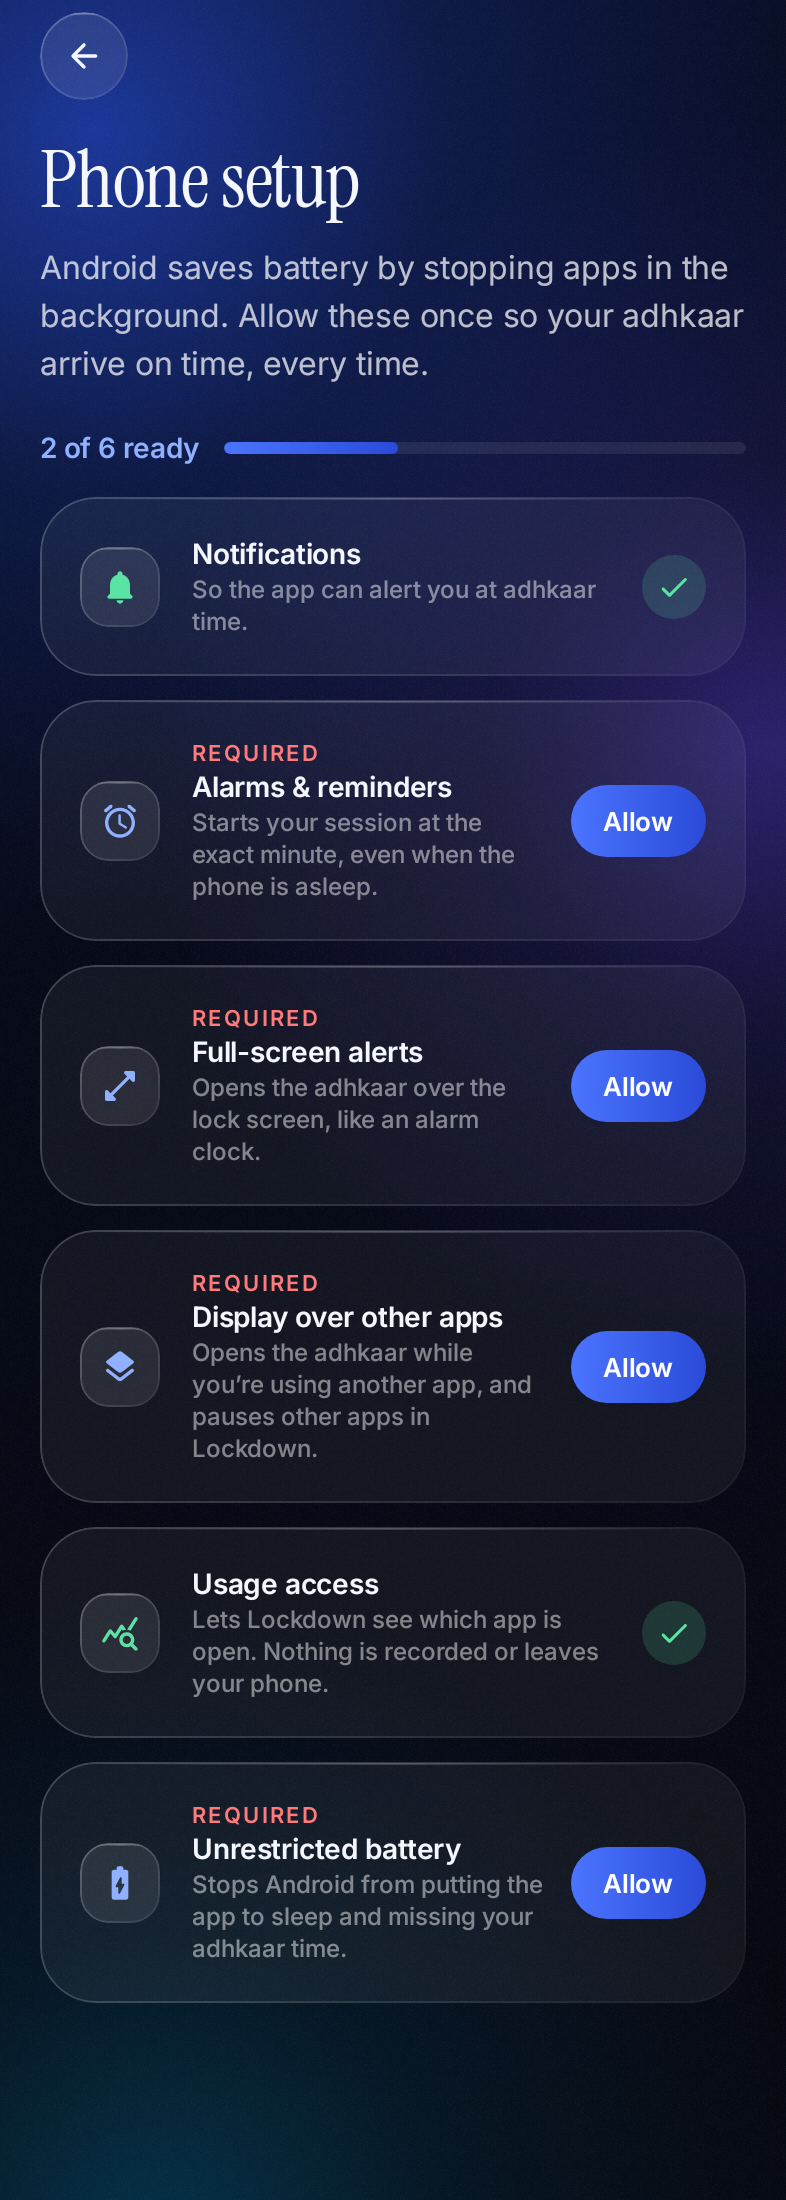
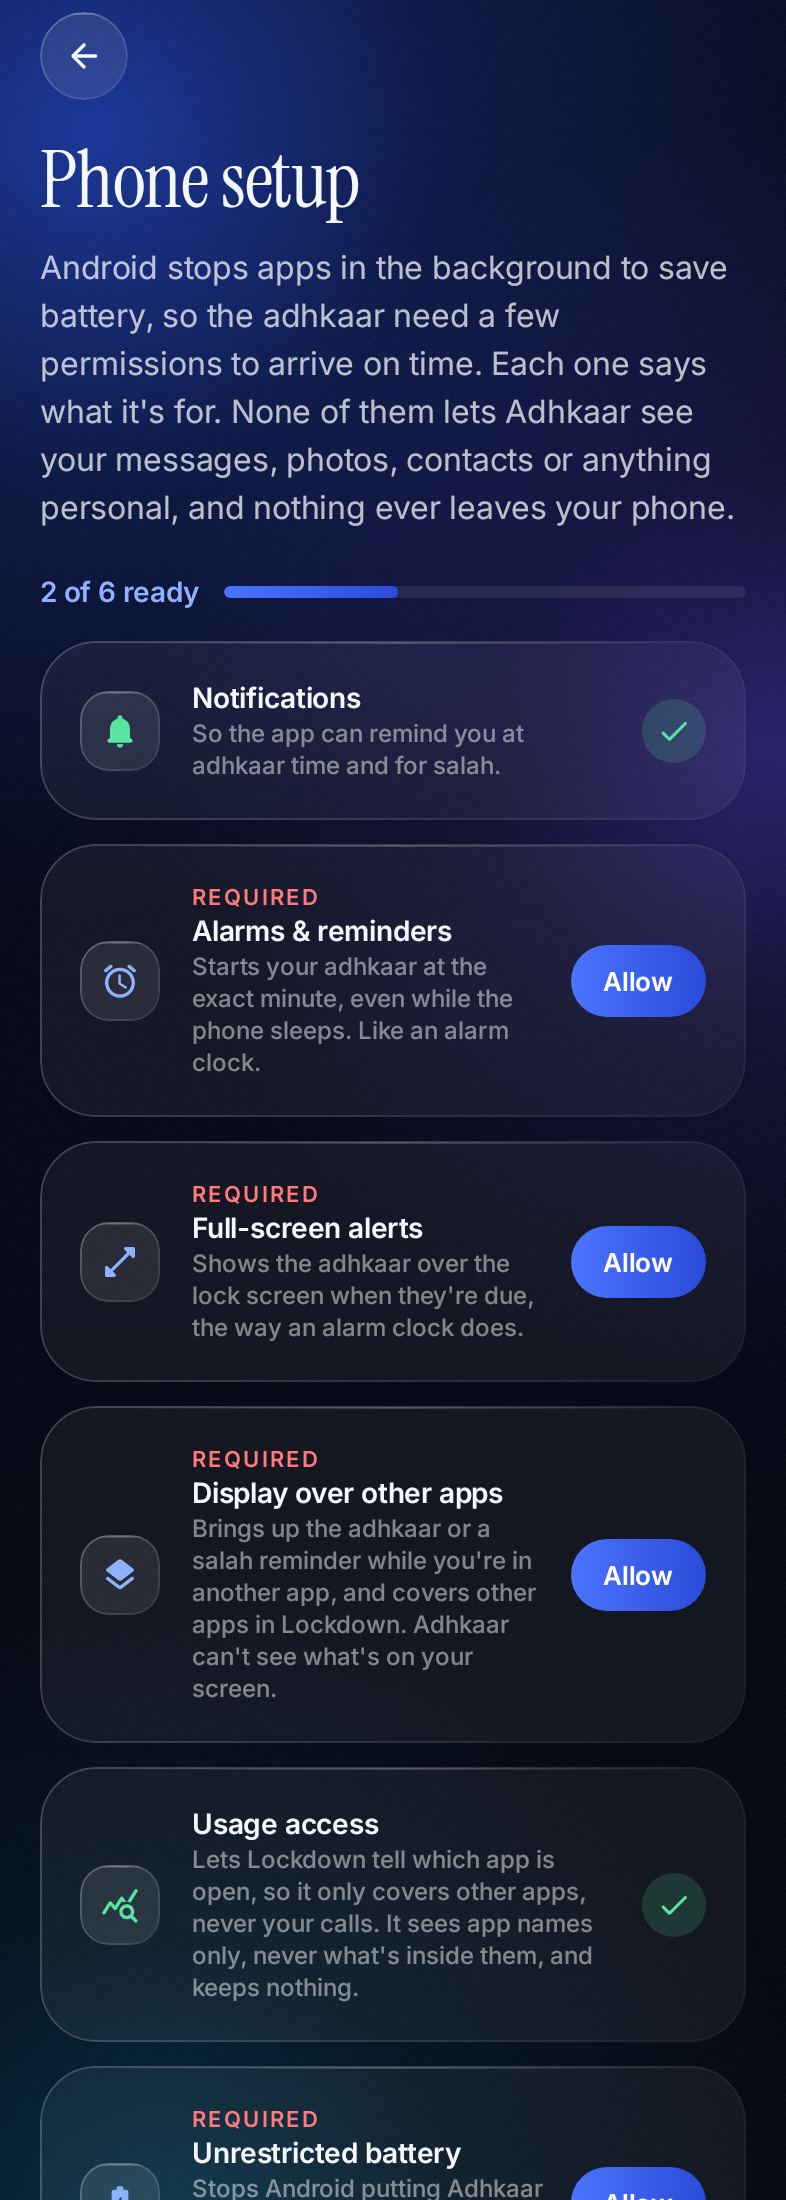
Setup: say why each permission is needed, guide usage access, check background by itself

diff --git a/app/src/main/java/org/adhkaar/app/ui/setup/SetupScreen.kt b/app/src/main/java/org/adhkaar/app/ui/setup/SetupScreen.kt
@@ -131,9 +131,9 @@ fun RequirementsList(strictness: Strictness) {
     val items = Requirement.relevantFor(strictness)
     val granted = remember(resumeTick, refresh, strictness) { items.associateWith { it.isGranted(context) } }
     val guide = remember { OemAutostart.guide() }
-    // On Xiaomi phones the background switches can be read; elsewhere the user confirms by hand.
-    val backgroundChecked = remember(resumeTick, refresh) { OemAutostart.xiaomiBackgroundAllowed(context) }
-    val backgroundOk = backgroundChecked ?: settings.oemAutostartDone
+    // Read from the phone: Xiaomi's own switches where they can be read, otherwise whether
+    // Android lets Adhkaar run unrestricted. Nothing to confirm by hand.
+    val backgroundOk = remember(resumeTick, refresh) { OemAutostart.backgroundDone(context) }
 
     val notificationPrompt = rememberLauncherForActivityResult(ActivityResultContracts.RequestPermission()) { ok ->
         refresh++
@@ -173,6 +173,11 @@ fun RequirementsList(strictness: Strictness) {
                 body = stringResource(req.why),
                 required = strictness in req.requiredFor,
                 done = granted[req] == true,
+                steps = if (req == Requirement.USAGE_ACCESS) listOf(
+                    stringResource(R.string.req_usage_step_find),
+                    stringResource(R.string.req_usage_step_tap),
+                    stringResource(R.string.req_usage_step_on),
+                ) else emptyList(),
             ) {
                 if (req == Requirement.NOTIFICATIONS && Build.VERSION.SDK_INT >= 33) {
                     notificationPrompt.launch(Manifest.permission.POST_NOTIFICATIONS)
@@ -205,30 +210,18 @@ fun RequirementsList(strictness: Strictness) {
                 Spacer(Modifier.height(Space.s))
                 Row(Modifier.padding(start = 56.dp), horizontalArrangement = Arrangement.spacedBy(Space.s)) {
                     CompactButton(stringResource(R.string.setup_open_settings), filled = true) { OemAutostart.open(context, guide) }
-                    CompactButton(stringResource(R.string.setup_guide), filled = false) {
-                        context.startActivity(
-                            Intent(Intent.ACTION_VIEW, Uri.parse(OemAutostart.helpUrl(guide))).addFlags(Intent.FLAG_ACTIVITY_NEW_TASK),
-                        )
-                    }
                 }
                 Spacer(Modifier.height(Space.m))
-                if (backgroundChecked != null) {
-                    // Read from the phone itself, so there is nothing to confirm by hand.
-                    Row(Modifier.padding(start = 56.dp), verticalAlignment = Alignment.CenterVertically) {
-                        Icon(
-                            if (backgroundChecked) Icons.Rounded.Check else Icons.Rounded.PhoneAndroid, null,
-                            tint = if (backgroundChecked) Nur.success else Nur.danger, modifier = Modifier.size(16.dp),
-                        )
-                        Spacer(Modifier.width(Space.s))
-                        Text(
-                            stringResource(if (backgroundChecked) R.string.setup_oem_checked_ok else R.string.setup_oem_checked_missing),
-                            style = Type.caption.copy(color = if (backgroundChecked) Nur.success else Nur.textSecondary),
-                        )
-                    }
-                } else {
-                    GlassSwitchRow(stringResource(R.string.setup_oem_done), settings.oemAutostartDone, Modifier.padding(start = 56.dp)) { v ->
-                        SettingsStore.get(context).update { it.copy(oemAutostartDone = v) }
-                    }
+                Row(Modifier.padding(start = 56.dp), verticalAlignment = Alignment.CenterVertically) {
+                    Icon(
+                        if (backgroundOk) Icons.Rounded.Check else Icons.Rounded.PhoneAndroid, null,
+                        tint = if (backgroundOk) Nur.success else Nur.danger, modifier = Modifier.size(16.dp),
+                    )
+                    Spacer(Modifier.width(Space.s))
+                    Text(
+                        stringResource(if (backgroundOk) R.string.setup_oem_checked_ok else R.string.setup_oem_checked_missing),
+                        style = Type.caption.copy(color = if (backgroundOk) Nur.success else Nur.textSecondary),
+                    )
                 }
             }
         }
@@ -236,7 +229,15 @@ fun RequirementsList(strictness: Strictness) {
 }
 
 @Composable
-private fun StepCard(icon: ImageVector, title: String, body: String, required: Boolean, done: Boolean, onAllow: () -> Unit) {
+private fun StepCard(
+    icon: ImageVector,
+    title: String,
+    body: String,
+    required: Boolean,
+    done: Boolean,
+    steps: List<String> = emptyList(),
+    onAllow: () -> Unit,
+) {
     GlassCard(Modifier.fillMaxWidth()) {
         Row(verticalAlignment = Alignment.CenterVertically) {
             IconBadge(icon, if (done) Nur.success else LocalAura.current.accent)
@@ -261,6 +262,15 @@ private fun StepCard(icon: ImageVector, title: String, body: String, required: B
                     }
                 } else {
                     CompactButton(stringResource(R.string.setup_allow), filled = true, onClick = onAllow)
+                }
+            }
+        }
+        if (!done && steps.isNotEmpty()) {
+            Spacer(Modifier.height(Space.m))
+            steps.forEachIndexed { n, step ->
+                Row(Modifier.padding(start = 56.dp, bottom = Space.s)) {
+                    Text("${n + 1}", style = Type.caption.copy(color = LocalAura.current.accent), modifier = Modifier.width(16.dp))
+                    Text(step, style = Type.caption.copy(color = Nur.textSecondary))
                 }
             }
         }

diff --git a/app/src/main/java/org/adhkaar/app/setup/Requirements.kt b/app/src/main/java/org/adhkaar/app/setup/Requirements.kt
@@ -82,7 +82,9 @@ enum class Requirement(
                 Intent(Settings.ACTION_MANAGE_APP_USE_FULL_SCREEN_INTENT, pkg)
             } else appDetails(pkg)
             OVERLAY -> Intent(Settings.ACTION_MANAGE_OVERLAY_PERMISSION, pkg)
-            USAGE_ACCESS -> Intent(Settings.ACTION_USAGE_ACCESS_SETTINGS, pkg)
+            // The list of all apps: phones differ on whether they open one app's page, so the
+            // card's steps say how to find Adhkaar in the list.
+            USAGE_ACCESS -> Intent(Settings.ACTION_USAGE_ACCESS_SETTINGS)
             BATTERY -> Intent(Settings.ACTION_REQUEST_IGNORE_BATTERY_OPTIMIZATIONS, pkg)
         }
     }
@@ -102,7 +104,6 @@ enum class Requirement(
             // Some phones (Samsung among them) open the whole list for these two rather than
             // Adhkaar's own switch, so say what to look for as the list opens.
             val hint = when (requirement) {
-                USAGE_ACCESS -> R.string.req_usage_access_find
                 OVERLAY -> R.string.req_overlay_find
                 else -> null
             }

diff --git a/app/src/main/java/org/adhkaar/app/oem/OemAutostart.kt b/app/src/main/java/org/adhkaar/app/oem/OemAutostart.kt
@@ -142,8 +142,13 @@ object OemAutostart {
     private val XIAOMI_OPS = listOf(10008, 10021, 10020)
 
     /** Whether the brand's background step is done: checked where possible, else as the user confirmed. */
-    fun backgroundDone(context: Context, userConfirmed: Boolean): Boolean {
+    /**
+     * Whether the phone lets Adhkaar run in the background: Xiaomi's switches where they can be
+     * read, otherwise whether Android runs it without battery restrictions.
+     */
+    fun backgroundDone(context: Context): Boolean {
         if (guide() == null) return true
-        return xiaomiBackgroundAllowed(context) ?: userConfirmed
+        return xiaomiBackgroundAllowed(context)
+            ?: context.getSystemService(android.os.PowerManager::class.java).isIgnoringBatteryOptimizations(context.packageName)
     }
 }

diff --git a/app/src/main/java/org/adhkaar/app/ui/setup/OnboardingScreen.kt b/app/src/main/java/org/adhkaar/app/ui/setup/OnboardingScreen.kt
@@ -127,10 +127,10 @@ fun OnboardingScreen(onFinished: () -> Unit) {
             // again whenever the user comes back from a system settings screen.
             val settings by SettingsStore.get(context).flow.collectAsState()
             val resumeTick = rememberResumeTick()
-            val ready = remember(resumeTick, settings.strictness, settings.oemAutostartDone, current) {
+            val ready = remember(resumeTick, settings.strictness, current) {
                 current != STEPS || (
                     Requirement.missingRequired(context, settings.strictness).isEmpty() &&
-                        OemAutostart.backgroundDone(context, settings.oemAutostartDone)
+                        OemAutostart.backgroundDone(context)
                     )
             }
             StepScaffold(
